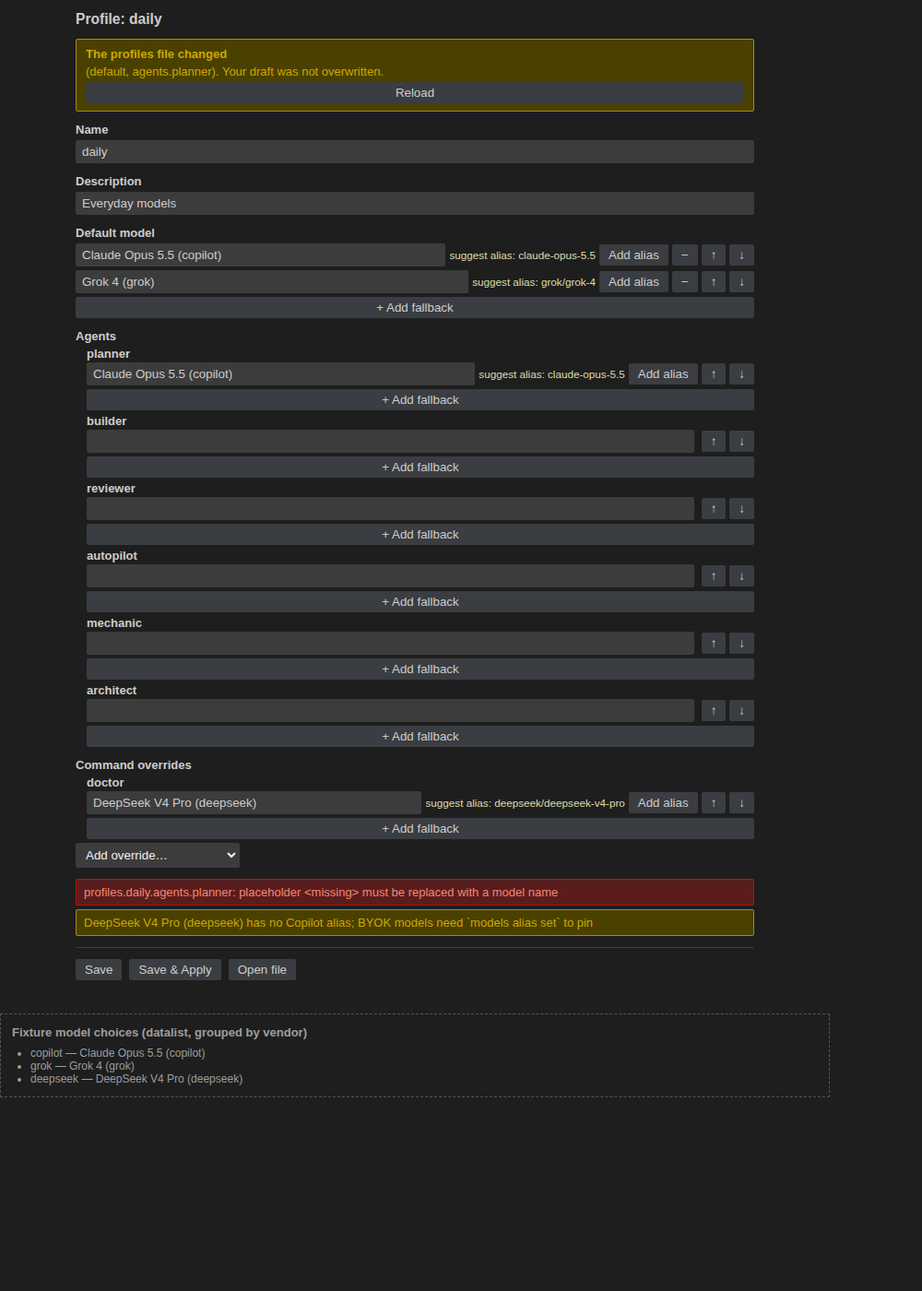
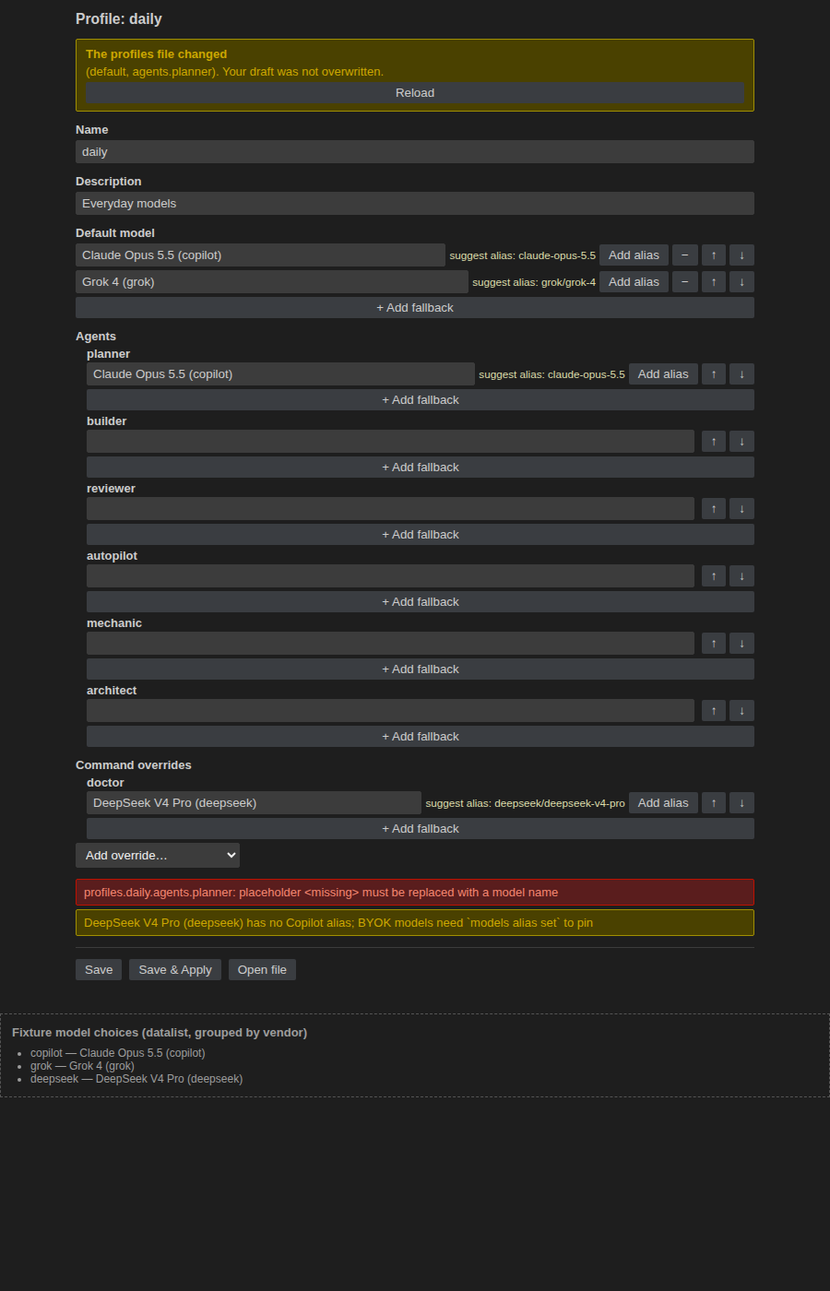
docs(feature): review model-profile-editor — approve

diff --git a/features/2026/10/model-profile-editor/review.md b/features/2026/10/model-profile-editor/review.md
@@ -1,172 +1,210 @@
 # Review: model-profile-editor
 
-Verdict: request-changes
+Verdict: approve
 
-Reviewed 2026-10-21 at product `dcbe9ee` (branch `feature/model-profile-editor`, code PR
-david-perry-software/agento#126) against companion `a73b47b` (artifact PR
-david-perry-software/agento-docs#63). `origin/main` is an ancestor of HEAD in both
-halves; both halves were clean before and after every check. Skills consulted: none —
-the plan's `Skills consulted: none — no matching domain` holds (no `## Agento` skills
-table in AGENTS.md, no `.agents/skills/`).
+Round 2, reviewed 2026-10-21 at product `7d8acdf` (branch `feature/model-profile-editor`,
+code PR david-perry-software/agento#126) against companion `41c497c` (artifact PR
+david-perry-software/agento-docs#63). Round 1 (companion `f76c26a`, product `dcbe9ee`)
+requested changes for two major defects; the Builder answered with steps 4.4, 4.5, and
+5.2 (product `fdb2790`, `d66faac`, `7d8acdf`). `origin/main` is an ancestor of HEAD in
+both halves and both halves were in sync with `origin/feature/model-profile-editor`
+(0/0 ahead-behind) and clean before every check. Skills consulted: none — the plan's
+`Skills consulted: none — no matching domain` still holds (no `## Agento` skills table
+in AGENTS.md, no `.agents/skills/`).
 
-Fresh verification, all run by the Reviewer in the product checkout:
+## Fresh verification (all run by the Reviewer)
 
 | Check | Result |
 | --- | --- |
 | `/tmp/shellcheck-v0.10.0/shellcheck scripts/hooks/*.sh scripts/wait-for-checks.sh` | exit 0, 0 findings (baseline: 0) |
 | `node --test 'scripts/**/*.test.mjs' 'tests/**/*.test.mjs'` | exit 0, **612/612** (baseline 609) |
 | five guard smoke replays from AGENTS.md | 5/5 exit 0 |
-| `cd extension && npm ci && npm run build && npm run typecheck` | all exit 0 |
-| `npm run test:unit` | exit 0, **201/201** (baseline 183) |
+| `cd extension && npm ci && npm run build && npm run typecheck && npm run test:unit` | exit 0, **201/201** (baseline 183) |
 | `node --check media/profileEditor.js` | exit 0 |
-| `DISPLAY=:0 npm run test:electron` | exit 0, 4/4 scenarios; in-repo log names `model-profile editor` |
-| `npm run package` + `unzip -l agento-dashboard-0.11.0.vsix` | exit 0; lists `extension/media/profileEditor.js` and `.css` |
+| `DISPLAY=:0 npm run test:electron` | exit 0, 4/4 scenarios; in-repo log: `… model profiles, model-profile editor` |
+| `npm run package` + `unzip -l agento-dashboard-0.11.0.vsix` | exit 0; lists `extension/media/profileEditor.js` (15828 B) and `.css` (4002 B); no `test/webview` |
 | `DISPLAY=:0 npm run test:vsix` | exit 0 (`VSIX install smoke passed`); `.vsix` removed afterwards |
-| harness on `local:3177` (headless Chrome, `--dump-dom`) | both variants render; no `#csp-violation` marker |
-| `git status --porcelain --untracked-files=all` (both halves) | empty after every run |
+| harness on `local:3177` (headless Chrome `--dump-dom`), plain / `?conflict=1` / `?keepDraft=1` | all three: 11 `<input>`s, footer present, 7 datalist `<option>`s, no `#csp-violation`, no `#uncaught-error`; conflict variant has exactly one Reload |
+| `git status --porcelain --untracked-files=all` (both halves) | empty after every run (companion: only this review's evidence) |
+
+### Independent reproduction of the round-1 defects
+
+A stub `vscode` module (ESM loader hook) drove the compiled
+`out/src/profileEditorPanel.js` through `handleMessage` with a temp
+`AGENTO_CONFIG_HOME` and the real CLI (`extension/cli/agento.mjs`); 16 checks, all
+outside the repository tree:
+
+- **Defect 1 (dirty-then-save).** `change dirty:true → save` wrote the body and the
+  last posted message was `state` with `hash` = `models show` `profilesFile.hash`
+  (`d53194da…` on both sides); the panel title dropped the `●`. A second
+  `change dirty:true → save` posted `state` (not `conflict`) and wrote the second
+  edit. A dirty rename (`review` → `renamed`) re-keyed the panel and posted the new
+  file hash with title `Profile: renamed`. **16/16 pass against `7d8acdf`.**
+- **Negative control.** The same script against a `/tmp` build of `dcbe9ee` (the
+  round-1 code, `git archive` + `tsc`) fails exactly as round 1 reported: posted
+  `state` hash `16f43091…` vs file `d53194da…`, title still `● Profile: review`,
+  second save → `{"type":"conflict","changed":["description","default"]}`, second
+  edit not written. So the reproduction is sensitive and step 5.2's "fails against
+  the pre-4.4/4.5 code" claim holds.
+- **Defect 2 (addAlias refresh).** After `change dirty:true → addAlias`, the host
+  posted `{ type: "state", keepDraft: true, name, form, pinnable, choices,
+  copilotModels, hash, unknownKeys }` — every key `renderForm` reads — with the new
+  file hash and `copilotModels["Grok 4 (grok)"] = "grok/grok-4"`; the host kept its
+  dirty state (`● Profile: watched`), and a following `save` of the draft was not a
+  conflict. That exact captured message was then posted to the real
+  `media/profileEditor.js` in headless Chrome after an initial `state` whose draft
+  description was `typed but unsaved`: the form re-rendered (9 inputs, footer), the
+  draft description stayed `typed but unsaved`, `baseHash` became the new hash, and
+  no error fired. The old partial `{ type: "state", keepDraft, name, copilotModels,
+  hash }` message in the same page still produced 0 inputs and an uncaught error —
+  the negative control for Finding 2.
+
+Reviewer screenshots (fresh renders of the committed harness on `local:3177` at this
+HEAD): ![form](evidence/review-step-6-2-editor-form.png)
+![conflict](evidence/review-step-6-2-editor-conflict.png)
+![keepDraft refresh](evidence/review-step-4-5-editor-keepdraft.png).
 
 ## Acceptance checklist results
 
 1. **CLI (`pinnable`, `body`, unchanged fields, shared `isPinnablePrompt`)** — **pass.**
-   `scripts/model-profiles.mjs:216-218` exports `isPinnablePrompt` and `resolveTargets`
-   calls it (`:250`); `scripts/agento.mjs:4858-4862` adds `pinnable` to `list`,
-   `:4870` adds `body` to `show`; both emits are additive. Cases in
-   `scripts/model-profiles.test.mjs` (`isPinnablePrompt: absent agent…`) and
-   `scripts/agento.test.mjs` (+3 tests, 609→612) pass; `tests/extension-bundle.test.mjs`
-   passes, so `extension/cli/` matches `scripts/`.
-2. **`CliClient.run` stdin + arg builders** — **pass.** `extension/src/cliClient.ts:99-112`
-   ends stdin with or without input; `extension/test/unit/cliClient.test.ts` "delivers
-   stdin input and closes stdin when none is given" passes. `updateProfileArgs` /
-   `aliasSetArgs` (`modelProfiles.ts:132-147`) append `--dry-run`/`--expect` only when
-   set; covered in `modelProfiles.test.ts`.
-3. **Pure editor model** — **pass.** `extension/test/unit/profileEditorModel.test.ts`
-   has 12 tests covering round trip, one-item↔string, empty omission, unknown keys,
-   vendor grouping, `suggestAlias`/`aliasStatus` (Copilot, BYOK, qualified, id-less),
-   every message type accepted and malformed/unknown rejected, `diffFields`,
-   `validateRename`; all pass in the 201/201 run.
+   Unchanged since round 1: `scripts/model-profiles.mjs` exports `isPinnablePrompt`
+   and `resolveTargets` calls it; `scripts/agento.mjs` adds `pinnable` to `list` and
+   `body` to `show`, both additive. Root suite 612/612 (609 + 3 new);
+   `tests/extension-bundle.test.mjs` passes, so `extension/cli/` matches `scripts/`.
+2. **`CliClient.run` stdin + arg builders** — **pass.** `extension/src/cliClient.ts`
+   ends stdin with or without input; `cliClient.test.ts` and `modelProfiles.test.ts`
+   pass in the 201/201 run.
+3. **Pure editor model** — **pass.** `profileEditorModel.test.ts` (12 tests: round
+   trip, one-item↔string, omission, unknown keys, vendor grouping,
+   `suggestAlias`/`aliasStatus` for Copilot/BYOK/qualified/id-less, every message
+   type accepted and malformed/unknown rejected, `diffFields`, `validateRename`) pass.
 4. **`renderEditorHtml` CSP/nonce/no remote/no inline** — **pass.**
-   `profileEditorHtml.ts:38` emits exactly `default-src 'none'; style-src ${csp};
-   script-src 'nonce-…'; img-src ${csp} data:; font-src ${csp}`; the only `<script>`
-   carries the nonce; `profileEditorHtml.test.ts` (4 tests) asserts the CSP string,
-   single nonce'd script, no `http(s)://`, no `on*=` handlers, and escaping.
-5. **Editor behavior in the in-repo electron scenario (10 checks)** — **pass as
-   specified, but see Findings 1–2.** Every listed check is implemented in
-   `extension/test/electron/suite.ts` `assertModelProfileEditor` and the suite passes
-   (4/4). However checks 4–6 drive `save` without a preceding `change { dirty: true }`,
-   so the suite exercises a flow the real webview never produces; the real flow is
-   broken (Finding 1). The acceptance text as written is satisfied; the behavior it
-   stands for is not.
-6. **Temp `AGENTO_CONFIG_HOME` guard + clean tree after electron** — **pass.** The suite
-   asserts `profilesFile.path` is under the temp home before any write (pre-existing
-   assertion in `assertModelProfilesView`, which the editor checks run inside);
+   `profileEditorHtml.ts:38` emits exactly the planned CSP; `profileEditorHtml.test.ts`
+   (4 tests) pass.
+5. **Editor behavior in the in-repo electron scenario (10 checks)** — **pass.** All
+   ten checks are in `extension/test/electron/suite.ts` `assertModelProfileEditor` and
+   the suite passes 4/4. Since round 1, checks 4–6 are preceded by
+   `change { form, dirty: true }` (`suite.ts:973-1032`), each save asserts the posted
+   `state.hash` equals `models show` `profilesFile.hash`
+   (`waitForStateHash`, `:968`), a following edit + save is asserted not to conflict
+   (`:1033-1046`), and check 8 asserts the post-alias refresh carries `form`,
+   `pinnable`, `choices`, `unknownKeys`, `copilotModels`, and the new `hash`
+   (`:1069-1094`). The round-1 gap between the test flow and the real webview flow is
+   closed; my independent reproduction above confirms the behavior.
+6. **Temp `AGENTO_CONFIG_HOME` guard + clean tree after electron** — **pass.** The
+   `profilesFile.path`-under-temp-home assertion still precedes every write;
    `git status --porcelain --untracked-files=all` was empty after my electron run.
 7. **Visual evidence** — **pass.** Builder's `evidence/step-6-2-editor-form.png` and
-   `evidence/step-6-2-editor-conflict.png` exist and are linked from step 6.2. I
-   re-served `extension/` on `local:3177` and re-rendered both variants with headless
-   Chrome: `evidence/review-step-6-2-editor-form.png` and
-   `evidence/review-step-6-2-editor-conflict.png`. Both show the grouped datalist
-   (DOM dump lists the three fixture `<option>`s), a two-entry fallback list under
-   Default model, the `doctor` command override, the inline error and warning, alias
-   suggestions with **Add alias**, and (conflict variant) the banner with only
-   **Reload**. The harness's `securitypolicyviolation` listener injected no
-   `#csp-violation` marker.
+   `step-6-2-editor-conflict.png` exist and are linked from step 6.2. My fresh renders
+   (`review-step-6-2-*.png`, above) show the grouped datalist (7 `<option>`s across
+   the fixture choices), the two-entry Default fallback list, the `doctor` override,
+   the inline error and warning, alias suggestions with **Add alias**, and the
+   conflict banner with only **Reload**. No CSP violation marker in any variant.
 8. **VSIX ships the webview assets** — **pass.** `npm run package` exit 0; `unzip -l`
-   lists `extension/media/profileEditor.js` (15828 B) and `profileEditor.css`
-   (4002 B); `npm run test:vsix` exit 0; the `.vsix` was removed and the tree is clean.
-9. **Docs and release** — **pass.** `docs/model-profiles.md:75-79,114-120`,
-   `docs/extension.md:316-329`, `extension/README.md:91-98,130-131` describe the editor
-   and the `pinnable`/`body` fields; `CHANGELOG.md:4-15` has `## 0.11.0 (unreleased)`
-   **Added**; version `0.11.0` in `package.json`, `extension/package.json`,
-   `.claude-plugin/plugin.json`, and both `extension/package-lock.json` fields.
+   lists both media files and no `test/webview`; `npm run test:vsix` exit 0; the
+   `.vsix` was removed.
+9. **Docs and release** — **pass.** Unchanged since round 1: `docs/model-profiles.md`,
+   `docs/extension.md`, `extension/README.md` describe the editor and the
+   `pinnable`/`body` fields; `CHANGELOG.md` has `## 0.11.0 (unreleased)` **Added**;
+   `0.11.0` in all four version files (both lock fields).
    `tests/customizations.test.mjs` passes inside the 612/612 run.
-10. **Lint gate (§5, full rerun)** — **pass.** shellcheck exit 0 / 0 findings equals
-    the recorded baseline; root 612 ≥ 609 + new; unit 201 ≥ 183 + new; electron 4/4;
-    guard replays 5/5. No new or undocumented findings; no overlap with shell files.
+10. **Lint gate (§5, full rerun)** — **pass.** shellcheck exit 0 / 0 findings equals the
+    recorded baseline; root 612 ≥ 609 + new; unit 201 ≥ 183 + new; electron 4/4;
+    guard replays 5/5. The fix commits touch no shell file; no new or undocumented
+    findings.
 
 ## Plan vs implementation
 
-- Plan `## Approach` item 5 ("On success: post the new state, clear dirty, reload the
-  tree view") is not met when the webview has reported a dirty draft — Finding 1.
-- Plan item 5 "addAlias … the panel takes the new hash" is implemented host-side, but
-  the refresh message it sends crashes the webview renderer — Finding 2.
-- `validateRename` (plan item 3) is implemented and tested but never called by the
-  panel; a bad new name reaches the CLI, whose usage error is shown verbatim (minor).
-- `extension/test/vsix/suite.ts` was changed (adds `agento.editModelProfile` and the
-  `agento.modelProfiles` view id) — not in the plan's affected files, but necessary
-  for `npm run test:vsix` to pass and in keeping with step 6.3. Acceptable.
-- Everything else matches the plan: CLI fields additive, stdin via `execFile` (no
-  shell), closed message schema, `localResourceRoots` limited to `media/`,
-  `enableScripts: true` with no `retainContextWhenHidden`.
+- Plan `## Approach` item 5 "On success: post the new state, clear dirty, reload the
+  tree view, and show `reapply`" — now met: `profileEditorPanel.ts:301-310` clears
+  `state.dirty`, updates the title, `load`s (which posts `state` with the new hash),
+  reloads the tree, and shows the summary.
+- Plan item 5 "addAlias … the panel takes the new hash" — met by
+  `load(state.name, { keepDraft: true })` (`:335`), which adopts `hash` and
+  `baseBody` and posts the full state with `keepDraft`; `media/profileEditor.js:412`
+  keeps the draft and adopts `baseHash` on that flag.
+- `load(name, { keepDraft })` bypasses the `loadToken`/`dirty` early returns
+  (`:160`, `:177`) only on the alias path, where the panel has just performed a
+  guarded write and must adopt the result; the watcher-driven reload
+  (`notifyProfilesChanged`) still skips dirty panels. Consistent with Q4.
+- Round-1 minor findings 3 and 4 (`validateRename` unused; `setClean()`/`saved`
+  dead code) are unchanged in code and recorded as roadmap Follow-ups — acceptable
+  deferrals (see Findings).
+- Everything else matches the plan as in round 1: CLI fields additive, stdin via
+  `execFile` (no shell), closed message schema, `localResourceRoots` limited to
+  `media/`, `enableScripts: true` with no `retainContextWhenHidden`.
 
 ## Roadmap audit
 
-- Spot-checked all 16 ticked boxes against the codebase and re-ran every `verify:`;
-  none is falsely ticked (each step's stated verify passes). Step 6.2 is not a
-  `(manual)` step but carries its two linked evidence files, which exist.
-- Added missing-work steps for the defects found: `4.4 (added 2026-10-21)` post-save
-  refresh when dirty, `4.5 (added 2026-10-21)` `addAlias` refresh contract, and
-  `5.2 (added 2026-10-21)` electron coverage of the real dirty-then-save flow and the
-  alias refresh. `next-step` now points at 4.4; `status` stays `in-review` for the
-  Builder fix handoff.
+- 19/19 boxes ticked; spot-checked each against the codebase and re-ran every
+  `verify:`. The 16 round-1 steps are unchanged and still verify. For the three added
+  steps:
+  - **4.4** — `profileEditorPanel.ts:301-307` clears `dirty` before `load`;
+    build/typecheck/unit exit 0; the `change dirty:true → save → change dirty:true →
+    save` sequence through `handleMessage` writes both saves with the posted
+    `state.hash` equal to `models show` `profilesFile.hash` and no `conflict`
+    (reproduction above and electron check 4–6). Correctly ticked.
+  - **4.5** — `node --check media/profileEditor.js` exit 0; the harness `?keepDraft=1`
+    variant posts a full `keepDraft` state after the initial state with no
+    `#uncaught-error` and 11 inputs rendered; the genuine host message also renders.
+    Correctly ticked.
+  - **5.2** — the assertions exist (`suite.ts:968-1094`), the suite passes, and the
+    equivalent sequence fails against the `dcbe9ee` build (negative control above).
+    Correctly ticked.
+- Step 7.3's recorded counts (612 / 201 / 4 / 5 / 0) match my fresh run.
+- No `(manual)` or `(manual, post-ship)` steps; step 6.2's two linked evidence files
+  exist. No falsely ticked boxes; no steps added this round.
+- Repair: the "adopt `profilesFile.hash` from the `update` result" Follow-up line now
+  names the residual timing window it closes (Finding 1 below), and a Follow-up was
+  added for Finding 2. No other roadmap changes.
 
 ## Findings
 
-1. **Major — a successful Save never refreshes the panel when the draft is dirty; the
-   next Save answers a false conflict.** `media/profileEditor.js:94-103` (`markDirty`)
-   posts `change { dirty: true }` on every keystroke, so in any real session host
-   `state.dirty` is `true` at Save. `profileEditorPanel.ts:298` then calls
-   `load(currentName)`, which returns at `:160` (`if (state.loadToken !== token ||
-   state.dirty) return;`) before updating `state.hash`, clearing `dirty`, or posting
-   `state`. Reproduced against the compiled `out/src/profileEditorPanel.js` with a
-   stub `vscode` module and a temp `AGENTO_CONFIG_HOME`: after `change dirty:true →
-   save`, the file held the new body but the last posted message was still the
-   original `state` with hash `a015949b…` while the file hash was `4ee7995b…`; a
-   second `change dirty:true → save` posted `{"type":"conflict","changed":
-   ["description","default"]}` (the fields the user themself had just saved) and the
-   second edit was not written. The control sequence without a prior `change` (what
-   the electron suite does) works. Effect for the user: the `●` marker never clears
-   after Save, and every second Save shows a bogus "The profiles file changed" banner
-   whose only exit, Reload, discards the new edit. Fix: in `save()` clear
-   `state.dirty` (and bump `loadToken`) before the reload, or adopt
-   `updateJson.profilesFile.hash` and post state directly. Roadmap 4.4 / 5.2.
-2. **Major — a successful Add alias blanks the form.** `profileEditorPanel.ts:329`
-   posts `{ type: "state", keepDraft: true, name, copilotModels, hash }`.
-   `media/profileEditor.js:410-430` (`receiveState`) assigns that partial object to
-   `state` and calls `renderForm()`, which clears `#root` and then reads
-   `state.unknownKeys.length` at `:232` → `Uncaught TypeError: Cannot read properties
-   of undefined (reading 'length')`. Reproduced by loading the real
-   `media/profileEditor.js` in headless Chrome and posting the initial `state`
-   followed by exactly that refresh message: the `error` listener captured the
-   TypeError and the DOM dump had 0 `<input>` elements and no `.footer` left. Neither
-   the electron suite (which does not execute the webview) nor the harness (which never
-   posts a `keepDraft` state) covers this. Fix: post the full state with `keepDraft`,
-   or merge the partial refresh into the existing `state` in the webview. Roadmap 4.5.
-3. **Minor — `validateRename` is dead in production.** `save()` passes `form.name`
-   straight to `renameProfileArgs`; the CLI rejects bad names (`[a-z0-9-]+`, argc
-   check at `scripts/agento.mjs:4820-4821`), so there is no security exposure (all
-   arguments go through `execFile`, no shell), but a name such as `--dry-run` is
-   consumed as a flag and surfaces as a raw usage error instead of the friendly
-   message `validateRename` produces.
-4. **Minor — dead code in the webview/host contract.** `media/profileEditor.js:111`
-   `setClean()` is never called (dirty is only cleared by a full `state` message), and
-   the webview's `saved` branch (`:450`) handles a message the host never posts.
-5. **Security review of the first script-enabled webview — no findings.** CSP is
-   `default-src 'none'` with a per-render `crypto.randomBytes` nonce
-   (`profileEditorHtml.ts:13,38`), no inline handlers (all listeners via
-   `addEventListener`, all text via `textContent`), no remote URLs, `localResourceRoots`
-   limited to `media/` (`profileEditorPanel.ts:86-87`). Every inbound message goes through
-   `parseWebviewMessage` (exact key sets per type, typed fields; unknown → logged, not
-   acted on; `profileEditorPanel.ts:198-201`). The webview has no file or shell
-   access: writes are `execFile` arguments plus JSON on stdin (`cliClient.ts:68,110`),
-   never a shell; the CLI re-validates names, keys, and values. The harness render
-   produced no CSP violation.
+1. **Minor — a keystroke during the post-save reload can still leave the hash
+   stale.** `save()` clears `state.dirty` and then awaits `load()`
+   (`profileEditorPanel.ts:305-307`), which runs `models show` and `models list`
+   before posting. If the webview posts `change { dirty: true }` in that window (the
+   user keeps typing right after clicking Save), `markDirty` (`:235-241`) bumps
+   `loadToken` and sets `dirty`, so the `load` returns at `:160`/`:177` without
+   adopting the new hash, and the next Save answers a conflict naming the user's own
+   fields — round-1 Finding 1 confined to a sub-second window. Not reproduced
+   interactively; derived from the code path (the race needs a `change` to arrive
+   between two awaited CLI calls). The existing Follow-up "adopt `profilesFile.hash`
+   from the `update` result directly" closes it fully; its roadmap line now says so.
+   Does not block: the window is narrow, the webview's draft is intact, and the
+   recovery (Reload) loses only the keystrokes typed during the save.
+2. **Minor — Add alias clears the inline validation feedback until the next edit.**
+   `receiveState` (`media/profileEditor.js:410-432`) resets `errors`/`warnings` on
+   every `state`, including the `keepDraft` refresh, and nothing re-posts `validate`.
+   Visible in `evidence/review-step-4-5-editor-keepdraft.png`: the fixture's error
+   and warning shown in the plain render are gone after the refresh even though the
+   draft is unchanged. A `scheduleValidate()` in the `keepDraft` branch fixes it.
+   Recorded as a Follow-up.
+3. **Minor (carried, deferred) — `validateRename` is dead in production.**
+   Unchanged since round 1; the CLI rejects bad names (`execFile`, no shell), so the
+   only effect is a raw usage message. Roadmap Follow-up.
+4. **Minor (carried, deferred) — `setClean()` and the `saved` branch are dead code.**
+   Unchanged since round 1. Roadmap Follow-up.
+5. **Security review of the first script-enabled webview — no new findings.** The fix
+   commits change no CSP, nonce, message-schema, `localResourceRoots`, or CLI
+   invocation code; `handleMessage` still routes every inbound message through
+   `parseWebviewMessage`. The harness render at this HEAD produced no CSP violation
+   in any variant.
+
+**Follow-up deferrals — acceptable.** All four recorded Follow-ups (and the one added
+this round) are minor: none affects data integrity (every write is still
+`--expect`-guarded and CLI-validated), none is user-blocking, and the two major
+defects they sat beside are fixed and covered by the electron suite. The DOM-level
+webview test remains the most valuable of them: the `?keepDraft=1` harness variant
+exists but is only exercised by hand; the electron suite asserts the host's message
+shape, not the webview's render.
 
 ## Follow-ups
 
-- Add a DOM-level unit test (e.g. jsdom, or the harness driven by the electron
-  runner) that executes `media/profileEditor.js` against each host message type,
-  including `keepDraft`, `conflict`, and `deleted`, so the webview script has
-  behavioral coverage beyond `node --check`.
-- Consider having `save()` adopt `profilesFile.hash` from the `update` result
-  directly, so the panel never depends on a `load()` round-trip to learn its own
-  write's hash.
+- (Finding 2) In `media/profileEditor.js` `receiveState`, call `scheduleValidate()`
+  (or keep `errors`/`warnings`) on the `keepDraft` branch so Add alias does not blank
+  the inline validation of an unchanged draft.
+- Carried from round 1 and already on the roadmap: `validateRename` wiring;
+  `setClean()`/`saved` dead code; a DOM-level unit test that executes
+  `media/profileEditor.js` against each host message type; `save()` adopting
+  `profilesFile.hash` from the `update` result (closes Finding 1).

diff --git a/features/2026/10/model-profile-editor/roadmap.md b/features/2026/10/model-profile-editor/roadmap.md
@@ -109,4 +109,5 @@ artifact-pr: "#63"
 - (review.md Finding 3) `validateRename` is implemented and unit-tested but never called by `save()`; a bad new name reaches the CLI, whose usage error is shown verbatim instead of the friendly message. Wire `validateRename` into `save()` before `renameProfileArgs` (it needs the existing profile names from `models list`).
 - (review.md Finding 4) Dead webview/host contract code: `media/profileEditor.js` `setClean()` is never called and its `saved` message branch handles a message the host never posts. Remove or repurpose them.
 - (review.md Follow-ups) Add a DOM-level unit test (jsdom, or the harness driven by the electron runner) that executes `media/profileEditor.js` against each host message type, including `keepDraft`, `conflict`, and `deleted`.
-- (review.md Follow-ups) Consider having `save()` adopt `profilesFile.hash` from the `update` result directly, so the panel does not depend on a `load()` round-trip to learn its own write's hash.
+- (review.md Follow-ups) Consider having `save()` adopt `profilesFile.hash` from the `update` result directly, so the panel does not depend on a `load()` round-trip to learn its own write's hash. (round-2 review, Finding 1) This also closes the residual window where a `change { dirty: true }` arriving during the post-save `load()` cancels it via `loadToken`, leaving the stale hash and a false conflict on the next Save.
+- (round-2 review.md Finding 2) `media/profileEditor.js` `receiveState` resets `errors`/`warnings` on the `keepDraft` refresh too, so Add alias blanks the inline validation of an unchanged draft until the next keystroke; call `scheduleValidate()` (or keep the feedback) on that branch.
